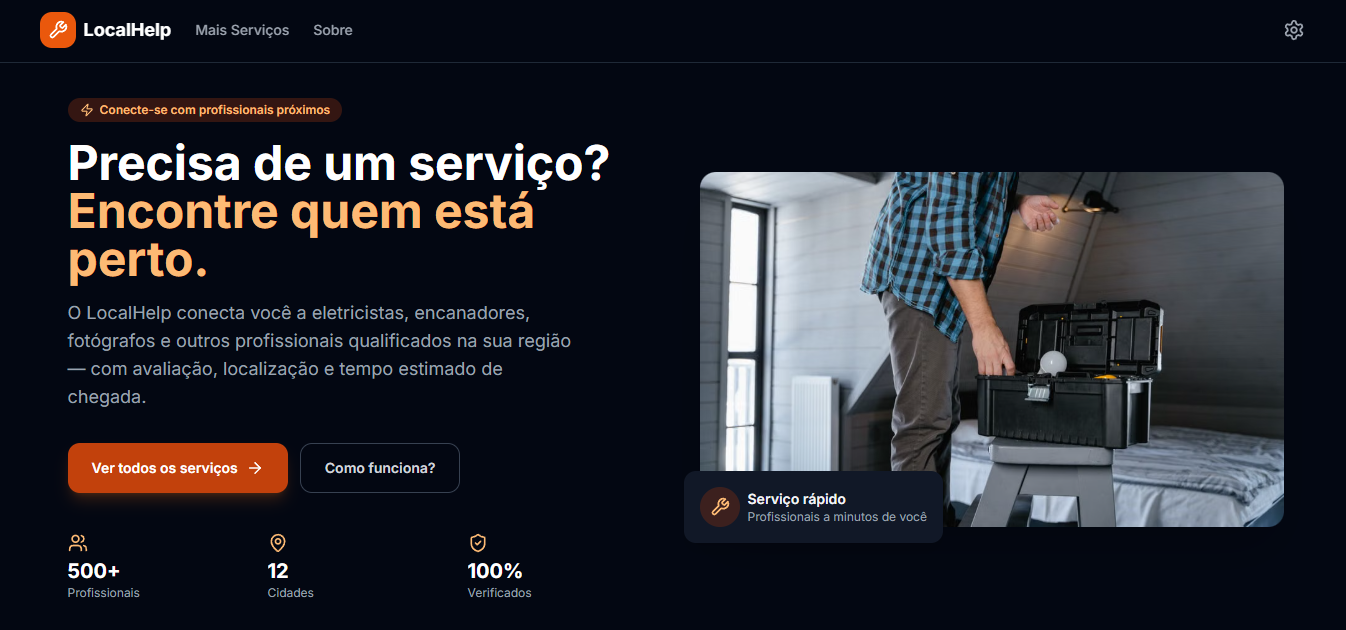
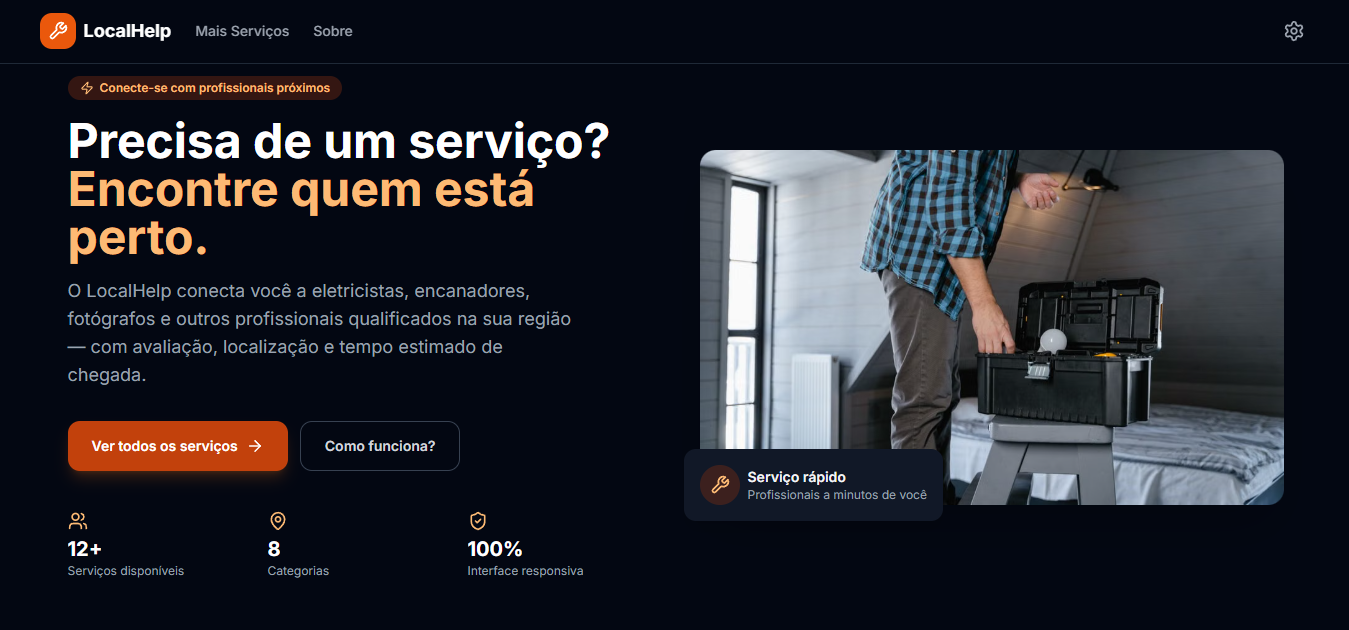
feat: screenshots atualizadas

diff --git a/README.md b/README.md
@@ -30,7 +30,7 @@ Encontrar alguém confiável para resolver uma necessidade local pode exigir bus
 
 ### Catálogo de serviços
 
-![Catálogo de serviços do LocalHelp](./project/src/assets/screenshots/Servi%C3%A7os.png)
+![Catálogo de serviços do LocalHelp](./project/src/assets/screenshots/Servicos.png)
 
 ### Sobre o projeto
 
